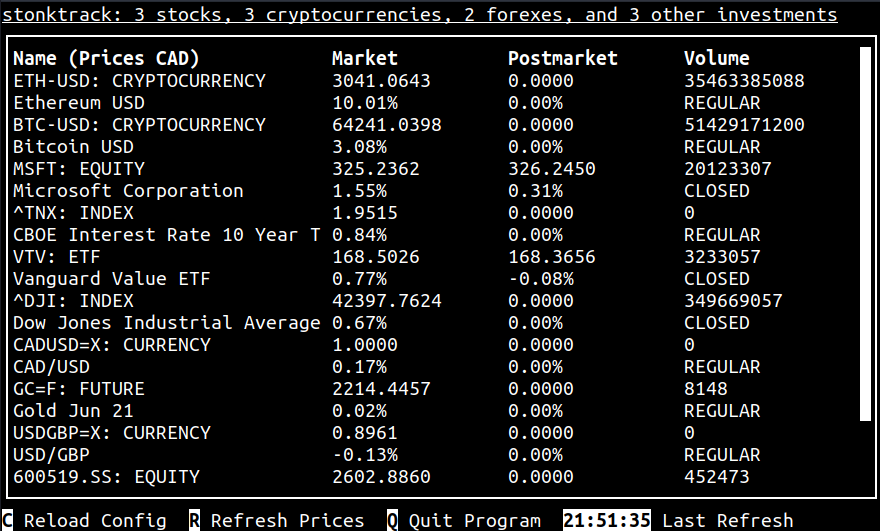
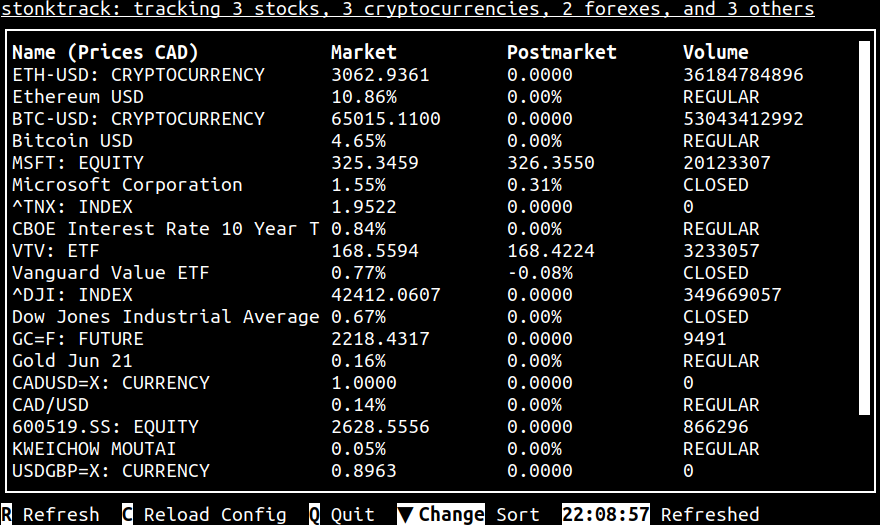
display sort and add new screenshots

Changed region(s): [[0.0, 0.0, 1.0, 1.0]]

diff --git a/stonktrack.py b/stonktrack.py
@@ -98,10 +98,17 @@ def refresh(_loop, _data):
     last_query = fetch()
     last_update = time.strftime("%H:%M:%S", time.localtime())
     body.base_widget.set_text(last_query)
-    footer.base_widget.set_text([("key", "C"), ("text", " Reload Config  "), ("key", "R"), ("text", " Refresh Prices  "), (
-        "key", "Q"), ("text", " Quit Program  "), ("key", last_update), ("text", " Last Refresh")])
+    footer.base_widget.set_text([("key", "R"), ("text", " Refresh  "), ("key", "C"), (
+        "text", " Reload Config  "), ("key", "Q"), ("text", " Quit  "), ("key", sort_name()), ("text", " Sort  "), ("key", last_update), ("text", " Refreshed")])
     _loop.set_alarm_in(config["refresh"], refresh)
     _loop.draw_screen()
+
+
+def sort_name():
+    if config["reverse"]:
+        return "▼ " + config["sort"].capitalize()
+    else:
+        return "▲ " + config["sort"].capitalize()
 
 
 load_config()
@@ -127,12 +134,12 @@ else:
     raise Exception(
         "Configured colour invalid, please refer to documentation.")
 
-header = f"stonktrack: {len(config['stocks'])} {'stocks' if len(config['stocks']) != 1 else 'stock'}, {len(config['cryptos'])} {'cryptocurrencies' if len(config['cryptos']) != 1 else 'cryptocurrency'}, {len(config['forexes'])} {'forexes' if len(config['forexes']) != 1 else 'forex'}, and {len(config['others'])} other {'investments' if len(config['others']) != 1 else 'investment'}"
+header = f"stonktrack: tracking {len(config['stocks'])} {'stocks' if len(config['stocks']) != 1 else 'stock'}, {len(config['cryptos'])} {'cryptocurrencies' if len(config['cryptos']) != 1 else 'cryptocurrency'}, {len(config['forexes'])} {'forexes' if len(config['forexes']) != 1 else 'forex'}, and {len(config['others'])} {'others' if len(config['others']) != 1 else 'other'}"
 header = urwid.Text([("title", header)])
 body = urwid.LineBox(ScrollBar(Scrollable(
     urwid.Text([("text", "Loading...")]))))
-footer = urwid.Text([("key", "C"), ("text", " Reload Config  "), ("key", "R"), ("text", " Refresh Prices  "),
-                     ("key", "Q"), ("text", " Quit Program  "), ("key", "Never"), ("text", " Last Refresh")])
+footer = urwid.Text([("key", "R"), ("text", " Refresh  "), ("key", "C"), ("text", " Reload Config  "),
+                     ("key", "Q"), ("text", " Quit  "), ("key", sort_name()), ("text", " Sort  "), ("key", "Never"), ("text", " Refreshed")])
 
 layout = urwid.Frame(header=header, body=body,
                      footer=footer, focus_part="footer")
